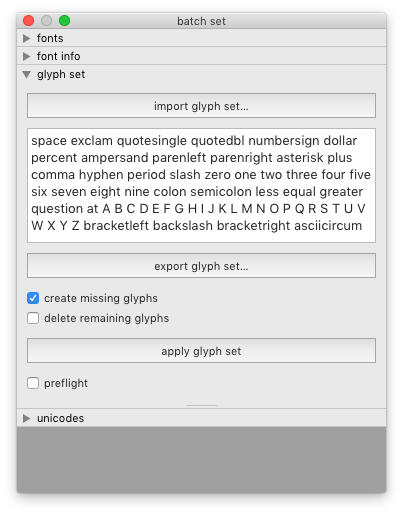
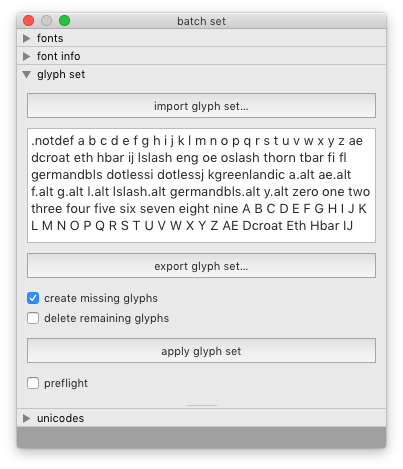
[docs] adding proper docs & screenshots for glyph tools

Changed region(s): [[0.0298, 0.0, 0.9826, 0.9254], [0.0596, 0.9552, 0.9529, 0.9851], [0.4169, 0.0299, 0.5658, 0.0597]]

diff --git a/docs/_layouts/default.html b/docs/_layouts/default.html
@@ -43,6 +43,15 @@
       {% endfor %}
 
       <li>
+        <a href="#">glyph</a>
+        <ul>
+          {% for item in site.glyph %}
+            <li><a href='{{ item.url | relative_url  }}'>{% if item.menuTitle %}{{ item.menuTitle }}{% else %}{{ item.title }}{% endif %}</a></li>
+          {% endfor %}
+        </ul>
+      </li>
+
+      <li>
         <a href="#">glyphs</a>
         <ul>
           {% for submenu in subfolders %}
@@ -61,16 +70,6 @@
 
           {% endfor %}
 
-        </ul>
-      </li>
-
-
-      <li>
-        <a href="#">glyph</a>
-        <ul>
-          {% for item in site.glyph %}
-            <li><a href='{{ item.url | relative_url  }}'>{% if item.menuTitle %}{{ item.menuTitle }}{% else %}{{ item.title }}{% endif %}</a></li>
-          {% endfor %}
         </ul>
       </li>
 

diff --git a/docs/_batch/set-data.md b/docs/_batch/set-data.md
@@ -47,29 +47,26 @@ Set data in the selected font info attributes.
 </div>
 
 <div class='col' markdown='1'>
-font info
-: define which font attributes to set
-
 import info from UFO
 : import font info values from a UFO font
 
 import info from JSON
 : import font info values from a JSON file
 
-attributes list
-: edit font info values in the list as needed
+font info attributes
+: edit and select font info values in the list
 
 select all
 : select all attributes in the list
 
 export to JSON
-: save the (selected) font info values to a `.json` file
+: save selected font info values to a `.json` file
 
 apply selected info
-: apply the selected font info attributes to the selected fonts
+: apply selected font info values to selected fonts
 
 preflight
-: simulate the action before applying it.
+: simulate the action before applying it
 </div>
 
 </div>
@@ -84,8 +81,26 @@ glyph set
 </div>
 
 <div class='col' markdown='1'>
+import glyph set
+: import glyph set from `.enc` file
+
 glyph set
-: define a glyph set to apply to the selected fonts
+: edit glyph set as a space-separated list
+
+export glyph set
+: export glyph set to `.enc` file
+
+create missing glyphs
+: create glyphs if they don’t exist in the font
+
+delete remaining glyphs
+: delete all glyphs which are not in the glyph set
+
+apply glyph set
+: apply the glyph set to the selected fonts
+
+preflight
+: simulate the action before applying it
 </div>
 
 </div>
@@ -100,8 +115,75 @@ unicodes
 </div>
 
 <div class='col' markdown='1'>
-unicodes
-: set unicodes in the selected fonts
+import unicodes
+: import additional unicode mapping from `.txt` file
+
+unicode mappings
+: edit and select glyph name to unicode mappings
+
+select all
+: select all unicodes in the list
+
+clear existing unicodes
+: remove all unicode values in the font first
+
+set unicodes
+: set selected unicodes in the selected fonts
+
+preflight
+: simulate the action before applying it
 </div>
 
 </div>
+
+data formats
+------------
+
+### glyphset.enc
+
+```plaintext
+space
+a
+b
+c
+d
+A
+B
+C
+D
+zero
+one
+two
+three
+```
+
+### fontinfo.json
+
+```json
+{
+  "familyName": "Publica",
+  "unitsPerEm": 1000,
+  "xHeight": 500
+  "ascender": 680.0,
+  "descender": -150.0,
+  "capHeight": 680.0,
+  "openTypeNameDesigner": "Gustavo Ferreira",
+  "openTypeOS2WeightClass": 350,
+  "openTypeOS2WidthClass": 5,
+}
+```
+
+### unicodes.txt
+
+```plaintext
+2190 arrowleft
+2191 arrowup
+2192 arrowright
+2193 arrowdown
+2194 arrowleftright
+2195 arrowupdown
+2196 arrowupleft
+2197 arrowupright
+2198 arrowdownright
+2199 arrowdownleft
+```

diff --git a/docs/_batch/find-replace.md b/docs/_batch/find-replace.md
@@ -1,8 +1,79 @@
 ---
 layout: default
-title: Find & replace info
+title: Find & replace
 menuTitle: find & replace
 ---
 
-Find and replace font info data in all selected fonts.
+Find and replace font data in all selected fonts.
 
+find
+: A string of text to find.
+
+replace
+: A string of text to replace the found string with.
+
+fonts
+-----
+
+Select on which fonts to find & replace data.
+
+<div class='row'>
+
+<div class='col' markdown='1'>
+![]({{ site.url }}/images/batch/BatchFindReplace_0.png)
+</div>
+
+<div class='col' markdown='1'>
+
+target fonts
+: a list of open and/or closed fonts for selection
+
+add all open fonts
+: add all open fonts to the list
+
+select all
+: select all fonts in the list
+
+add fonts folder
+: add a folder with UFOs to the list
+
+clear font lists
+: empties the list of fonts
+</div>
+
+</div>
+
+font info
+-----
+
+Find and replace text in the selected font info attributes.
+
+<div class='row'>
+
+<div class='col' markdown='1'>
+![]({{ site.url }}/images/batch/BatchFindReplace_1.png)
+</div>
+
+<div class='col' markdown='1'>
+font info attributes
+: select which font info attributes to use in the search
+
+select all
+: select all attributes in the list
+
+find & replace
+: find and replace strings in all selected fonts
+
+preflight
+: simulate the action before applying it
+</div>
+
+</div>
+
+- - -
+
+> add support for find & replace in other places:
+> - glyph names
+> - OpenType features
+> - groups
+{: .todo }

diff --git a/docs/_glyph/links.md b/docs/_glyph/links.md
@@ -3,4 +3,38 @@ layout: default
 title: Linked points
 ---
 
+Link pairs of points and visualize the distance or angle between them.
+
 ![]({{ site.url }}/images/glyph/links.png)
+
+distance
+: show the distance between points
+
+angle
+: show the angle between points
+
+link
+: select two points to create a link
+
+unlink
+: unlink selected points
+
+caption color
+: choose a color for the link captions
+
+caption size
+: size of the caption font
+
+projections
+: display measurements for x / y projections
+
+show preview
+: turn the visualisation on/off
+
+clear all
+: clear all links in the current glyph
+
+- - -
+
+> - implement *selection only*
+{: .todo }

diff --git a/docs/_glyph/measurements.md b/docs/_glyph/measurements.md
@@ -4,4 +4,35 @@ title: Show measurements
 menuTitle: measurements
 ---
 
+Visualize angle and length of curve handles and line segments.
+
 ![]({{ site.url }}/images/glyph/measurements.png)
+
+length
+: show the length of handles / lines
+
+angle
+: show the angle of handles / lines
+
+handles color
+: choose a color for handle captions
+
+handles
+: turn handles measurements on/off
+
+line segments
+: turn line segment measurements on/off
+
+lines color
+: choose a color for line segment captions
+
+caption size
+: size of the caption font
+
+show preview
+: turn the visualisation on/off
+
+- - -
+
+> - implement *selection only*
+{: .todo }

diff --git a/docs/_glyph/curvature.md b/docs/_glyph/curvature.md
@@ -4,4 +4,26 @@ title: Curvature visualizer
 menuTitle: Curvature
 ---
 
+Visualize curvature in curve segments.
+
 ![]({{ site.url }}/images/glyph/curvature.png)
+
+curvature color
+: choose a color for the curvature preview
+
+scale
+: the scale of the perpendicular section at each step
+
+steps
+: the number of measurement steps along each segment
+
+show preview
+: turn the visualisation on/off
+
+selection only
+: show visualisation only for selected segments
+
+- - -
+
+> - extend point selection to segment in *selection only*
+{: .todo }

diff --git a/docs/_glyph/interpolation.md b/docs/_glyph/interpolation.md
@@ -4,4 +4,27 @@ title: Interpolation preview
 menuTitle: Interpolation
 ---
 
+Visualize interpolation with another font.
+
 ![]({{ site.url }}/images/glyph/interpolation.png)
+
+master
+: font and layer of the second master
+
+steps
+: the number of interpolated steps between the masters
+
+preview color
+: choose a color for the interpolation preview
+
+show lines
+: display trails connecting points in masters
+
+preview
+: turn the visualisation on/off
+
+- - -
+
+> - add labels to dialog
+> - implement *selection only* ??
+{: .todo }

diff --git a/docs/_glyphs/anchors/create.md b/docs/_glyphs/anchors/create.md
@@ -3,7 +3,7 @@ layout: default
 title: Create anchors
 ---
 
-Create new anchors in the selected glyphs.
+Create anchor in the selected glyphs.
 
 <div class='row'>
 
